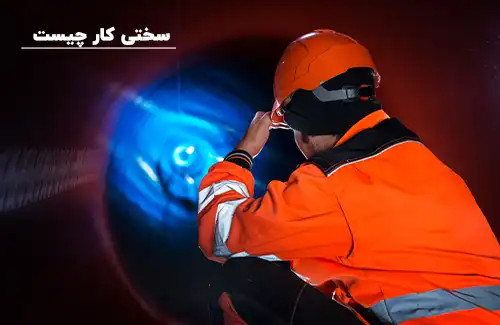
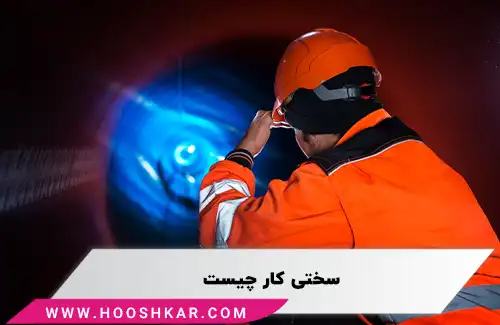
تغییر فرمت و نام گیف ها

diff --git a/Financial/WhatIsAccounting.md b/Financial/WhatIsAccounting.md
@@ -2,7 +2,7 @@
 title: حسابداری چیست؟
 author: سمانه رشوند - فربد وزیرمختار
 description: به طور خلاصه، حسابداری به بررسی و ثبت اطلاعات مالی و اقتصادی سازمانها و شرکتها و تهیه گزارشهای مالی جهت ارائه به مخاطبان داخلی و خارجی، و همچنین در کمک به تصمیمگیریهای مدیریتی و برنامهریزی مالی میپردازد.
-dateModified: 2024/05/07
+dateModified: 2024/05/20
 datePublished: 2023/04/13
 uid: Financial/WhatIsAccounting
 ---
@@ -72,7 +72,7 @@ uid: Financial/WhatIsAccounting
 
 تحلیلگران مالی میتوانند از آن برای ارزیابی عملکرد شرکت استفاده کنند و نهادهای نظارتی نیز میتوانند اطلاعات حسابداری را بررسی کنند تا به یک درک عمیقتر از وضعیت شرکت برسند.
 
-<a href="https://www.hooshkar.com" target="_blank"><img src="./images/Gif-of-Consultation.gif" alt="درخواست مشاوره رایگان" style="display: block; margin-left: auto; margin-right: auto;" title="مشاوره رایگان" caption="false" width="100%" height="100%"></a>
+<a href="https://www.hooshkar.com" target="_blank"><img src="./images/GifConsultation.webp" alt="درخواست مشاوره رایگان" style="display: block; margin-left: auto; margin-right: auto;" title="مشاوره رایگان" caption="false" width="100%" height="100%"></a>
 
 ### دفتر کل چیست؟ 
 دفتر کل، تغییرات و موجودی هر یک از حسابها را نمایش میدهد. اگرچه واحدهای تجاری ممکن است از انواع مختلفی از دفاتر کل استفاده کنند، اما هر واحد تجاری باید حداقل یک دفتر کل داشته باشد. این دفتر، شامل تمام حسابهای دارایی، بدهی و حسابهای حقوق مالکانه است.
@@ -91,6 +91,6 @@ uid: Financial/WhatIsAccounting
 
 بدون توجه به کوچک یا بزرگی یک کسب و کار مهمترین اقدام این است که زمان مناسبی برای دستیابی به اهداف مشخص تعیین شود، برنامهریزی و زمانبندی به طور عجولانه تغییر نکند. در پایان، گزارشهای نهایی در زمانبندی مشخص، که شواهد عملکرد را ارائه میدهند، اهمیت دارند.
 
-<a href="https://www.hooshkar.com" target="_blank"><img src="./images/Gif-of-Demo.gif" alt="درخواست دموی رایگان" style="display: block; margin-left: auto; margin-right: auto;" title="دموی رایگان" caption="false" width="100%" height="100%"></a>
+<a href="https://www.hooshkar.com" target="_blank"><img src="./images/GifDemo.webp" alt="درخواست دموی رایگان" style="display: block; margin-left: auto; margin-right: auto;" title="دموی رایگان" caption="false" width="100%" height="100%"></a>
 
 در این راستا <a href="https://www.hooshkar.com" target="_blank">هوشکار</a>، با سابقه سالها در ارائه نرمافزارهای حسابداری، آماده است تا خدمات خود را به شما ارائه دهد. برای مشاوره و انجام سفارش، با ما تماس حاصل فرمایید.

diff --git a/Financial/TpTaxGov.md b/Financial/TpTaxGov.md
@@ -2,7 +2,7 @@
 title: سامانه مودیان مالیاتی چیست (سایت tp.tax.gov.ir)
 author: سمانه رشوند
 description: سامانه مودیان مالیاتی  یک سامانه آنلاین است که توسط سازمان مالیاتی کشور برای ارتباط و ارسال اطلاعات بین مالکین و عرضهکنندگان خدمات و کالاها (مودیان) با اداره کنندگان مالیات تعبیه شده است.
-dateModified: 2024/05/05
+dateModified: 2024/05/20
 datePublished: 2023/05/07
 uid: Financial/TpTaxGov
 ---
@@ -40,7 +40,7 @@ uid: Financial/TpTaxGov
 
  >  **بند پ ماده 1 قانون پایانه های فروشگاهی و سامانه مودیان، در تعریف سامانه مودیان مالیاتی مقرر داشته:** "سامانهای است، تحت مدیریت سازمان که در آن، به هر مودی، کارپوشه ویژهای اختصاص یافته و تبادل اطلاعات میان مودیان و سازمان، منحصرا از طریق آن کارپوشه انجام میشود. مودیان میتوانند با استفاده از هرگونه سخت افزار یا نرم افزار، اعم از رایانه شخصی، پایانه فروشگاهی، سامانههای ابری یا هر وسیله دیگری که حافظه مالیاتی به آن متصل شده باشد، به سامانه مودیان متصل شوند. مرجع نهائی ثبت، صدور و استعلام صورتحساب الکترونیکی، سامانه مودیان میباشد."
 
-<a href="https://www.hooshkar.com" target="_blank"><img src="./images/Gif-of-Consultation.gif" alt="درخواست مشاوره رایگان" style="display: block; margin-left: auto; margin-right: auto;" title="مشاوره رایگان" caption="false" width="100%" height="100%"></a>
+<a href="https://www.hooshkar.com" target="_blank"><img src="./images/GifConsultation.webp" alt="درخواست مشاوره رایگان" style="display: block; margin-left: auto; margin-right: auto;" title="مشاوره رایگان" caption="false" width="100%" height="100%"></a>
 
 ### قانون سامانه مودیان مکمل قوانین مالیاتی کشور
 
@@ -132,7 +132,7 @@ uid: Financial/TpTaxGov
 ![هوشکار پرداز](./Images/HesabdarBartar.webp) | نرم افزار سامانه مودیان حسابداران برتر | استعلام وضعیت فاکتور در سامانه مودیان، قابلیت طراحی فاکتور چاپی، مدیریت مشتری | 7,200,000
 ![هوشکار پرداز](./Images/Chortke.webp) | نرم افزار سامانه مودیان چرتکه | استعلام کد اقتصادی، ارسال آنی فاکتورها، چاپ فاکتور رسمی، امکان اصلاح صورتحساب |  از11,400,00 تا 19,300,000
 
-<a href="https://www.hooshkar.com" target="_blank"><img src="./images/Gif-of-Demo.gif" alt="درخواست دموی رایگان" style="display: block; margin-left: auto; margin-right: auto;" title="ثبت دمو" caption="false" width="100%" height="100%"></a>
+<a href="https://www.hooshkar.com" target="_blank"><img src="./images/GifDemo.webp" alt="درخواست دموی رایگان" style="display: block; margin-left: auto; margin-right: auto;" title="ثبت دمو" caption="false" width="100%" height="100%"></a>
 
 
 

diff --git a/Financial/CostAccounting.md b/Financial/CostAccounting.md
@@ -2,7 +2,7 @@
 title: هدف از حسابداری صنعتی چیست
 author: سمانه رشوند
 description: حسابداری صنعتی یک شاخه از حسابداری محسوب می شود که به محاسبه بهای تمام شده محصولات و کنترل هزینه های تولید میپردازد.
-dateModified: 2024/05/11
+dateModified: 2024/05/20
 datePublished: 2023/07/18
 uid: Financial/CostAccounting
 ---
@@ -97,7 +97,7 @@ uid: Financial/CostAccounting
 
 این طبقهبندی هزینهها به حسابداران و مدیران کمک میکند تا هزینههای مختلف را به صورت دقیق تشخیص داده و برای برنامه ریزی مالی و تصمیمگیریهای استراتژیک مورد استفاده قرار دهند. همچنین، این طبقهبندی به تجزیه و تحلیل هزینهها، کاهش هزینهها و بهبود کارایی در فرآیندهای تولید کمک میکند.
 
-<a href="https://www.hooshkar.com" target="_blank"><img src="./images/Gif-of-Consultation.gif" alt="درخواست مشاوره رایگان" style="display: block; margin-left: auto; margin-right: auto;" title="مشاوره رایگان" caption="false" width="100%" height="100%"></a>
+<a href="https://www.hooshkar.com" target="_blank"><img src="./images/GifConsultation.webp" alt="درخواست مشاوره رایگان" style="display: block; margin-left: auto; margin-right: auto;" title="مشاوره رایگان" caption="false" width="100%" height="100%"></a>
 
 ### وظایف حسابداری
 
@@ -215,6 +215,6 @@ uid: Financial/CostAccounting
 
 **6. مهارت کار با نرم افزارهای مالی (بهای تمام شده) و اداری (اکسل):** حسابداری صنعتی نیازمند استفاده ماهرانه از نرم افزارهای مالی و اداری است. تسلط کامل بر این نرم افزارها و قابلیت استفاده بهینه از ابزارهای آن مهارتی ضروری برای ورود به این شاخه است.
 
-<a href="https://www.hooshkar.com" target="_blank"><img src="./images/Gif-of-Demo.gif" alt="درخواست دموی رایگان" style="display: block; margin-left: auto; margin-right: auto;" title="دموی رایگان" caption="false" width="100%" height="100%"></a>
+<a href="https://www.hooshkar.com" target="_blank"><img src="./images/GifDemo.webp" alt="درخواست دموی رایگان" style="display: block; margin-left: auto; margin-right: auto;" title="دموی رایگان" caption="false" width="100%" height="100%"></a>
 
 با توجه به موارد فوق، ورود به این شغل و حوزه نیازمند ترکیبی از تجربه، دانش و مهارتهای متنوع است. به علاوه، مهارتهای ارتباطی، توانایی حل مسئله و دقت در کار نیز از اهمیت بالایی برخوردارند. پیشرفت و موفقیت در این حوزه نیازمند یادگیری و بهروزرسانی مداوم نیز میباشد.

diff --git a/Financial/TheBestPayrollSoftware.md b/Financial/TheBestPayrollSoftware.md
@@ -2,7 +2,7 @@
 title: لیست بهترین نرم افزار های حقوق و دستمزد
 author: سمانه رشوند
 description: انتخاب بهترین نرم افزار حقوق و دستمزد بستگی به عوامل متعددی از جمله اندازه سازمان، تعداد کارمندان، بودجه در دسترس، و نیازهای اختصاصی دارد. با این حال، با بررسی دقیق ویژگیها و هزینههای هر نرم افزار، مدیران میتوانند گزینهای را انتخاب کنند که بهترین تناسب را با شرایط سازمان آنها داشته باشد.
-dateModified: 2024/05/08
+dateModified: 2024/05/20
 datePublished: 2022/10/30
 uid: Financial/TheBestPayrollSoftware
 ---
@@ -28,7 +28,7 @@ uid: Financial/TheBestPayrollSoftware
 
 در این مقاله، به معرفی چند مورد از بهترین نرم افزارها در زمینه محاسبه حقوق و دستمزد می پردازیم.
 
-<a href="https://www.hooshkar.com" target="_blank"><img src="./images/Gif-of-Consultation.gif" alt="درخواست مشاوره رایگان" style="display: block; margin-left: auto; margin-right: auto;" title="مشاوره رایگان" caption="false" width="100%" height="100%"></a>
+<a href="https://www.hooshkar.com" target="_blank"><img src="./images/GifConsultation.webp" alt="درخواست مشاوره رایگان" style="display: block; margin-left: auto; margin-right: auto;" title="مشاوره رایگان" caption="false" width="100%" height="100%"></a>
 
 ## <a href="https://www.hooshkar.com/Software/Sayan/Module/Payroll" target="_blank">نرم افزار حقوق و دستمزد سایان</a>
 حقوق و دستمزد سایان، یکی از محصولات کاربردی شرکت هوشکار
@@ -144,6 +144,6 @@ uid: Financial/TheBestPayrollSoftware
 
 هر سازمانی بسته به فعالیتها، ساختار و فرایندهای داخلی خود، نیازمندیها و خواستههای متفاوتی دارد. بنابراین انتخاب نهایی نرمافزار باید بر اساس بررسی دقیق نیازها و اولویتبندی آنها در هر سازمان صورت پذیرد تا بتواند به بهترین شکل نیازها را پوشش دهد.
 
-<a href="https://www.hooshkar.com" target="_blank"><img src="./images/Gif-of-Demo.gif" alt="درخواست دموی رایگان" style="display: block; margin-left: auto; margin-right: auto;" title="دموی رایگان" caption="false" width="100%" height="100%"></a>
+<a href="https://www.hooshkar.com" target="_blank"><img src="./images/GifDemo.webp" alt="درخواست دموی رایگان" style="display: block; margin-left: auto; margin-right: auto;" title="دموی رایگان" caption="false" width="100%" height="100%"></a>
 
 **با نرم افزار مدیریت حقوق و دستمزد سایان، محاسبه حقوق کارکنان به سادگی چند کلیک خواهد بود. بدون خطا، دقیق و سریع!**

diff --git a/Financial/BasicsOfFinancialAccounting.md b/Financial/BasicsOfFinancialAccounting.md
@@ -1,8 +1,8 @@
 ---
-title: آموزش مبانی حسابداری
+title: مبانی حسابداری
 author: سمانه رشوند
 description: مبانی حسابداری مالی یکی از مفاهیم اساسی در علم حسابداری است که به بررسی روشهای ثبت و تجزیه و تحلیل اطلاعات مالی یک شرکت میپردازد.
-dateModified: 2024/05/11
+dateModified: 2024/05/20
 datePublished: 2023/03/01
 uid: Financial/BasicsOfFinancialAccounting
 ---
@@ -13,13 +13,8 @@ uid: Financial/BasicsOfFinancialAccounting
   <ul>
     <li>تعریف حسابداری مالی و اهمیت آن</li>
     <li>مفاهیم اساسی حسابداری مالی</li>
-    <li>دوره مالی</li>
-    <li>دوره حسابرسی</li>
-    <li>داراییها</li>
-    <li>بدهیها</li>
-    <li>حساب ترازنامه</li>
-    <li>گزارش سود و زیان</li>
-    <li>نتیجهگیری</li>
+    <li>انواع مبانی حسابداری</li>
+     <li>نتیجهگیری</li>
   </ul>
 </details>
 
@@ -70,8 +65,7 @@ uid: Financial/BasicsOfFinancialAccounting
 
 در صورتی که سود شرکت بیشتر از زیان باشد، به معنی این است که شرکت در یک دوره مالی به سود رسیده است. این گزارش برای مدیران، سهامداران و بورسیهها بسیار مهم است.
 
-<a href="https://www.hooshkar.com" target="_blank"><img src="./images/Gif-of-Demo.gif" alt="درخواست دموی رایگان" style="display: block; margin-left: auto; margin-right: auto;" title="دموی رایگان" caption="false" width="100%" height="100%"></a>
-
+## انواع مبانی حسابداری
 
 ![طبقه بندی حساب ها در ترازنامه](./Images/TypesOfAccountingBasics.webp)
 
@@ -85,6 +79,8 @@ uid: Financial/BasicsOfFinancialAccounting
 **مبنای نقدی تعدیل شده:** ثبت درآمدها در دوره مربوطه و ثبت هزینهها مستلزم برقراری دو شرط ضروری و کافی است؛ یعنی ایجاد تعهد و انجام پرداخت.
 
 **مبنای تعهدی تعدیل شده:** درآمد آماده در دسترس و قابل اندازهگیری بوده و هزینه در زمان بروز تعهد، قابل پرداخت است.
+
+<a href="https://www.hooshkar.com" target="_blank"><img src="./images/GifDemo.webp" alt="درخواست دموی رایگان" style="display: block; margin-left: auto; margin-right: auto;" title="دموی رایگان" caption="false" width="100%" height="100%"></a>
 
 #### نتیجه گیری
 

diff --git a/Financial/WhatIsCardexWarehouse.md b/Financial/WhatIsCardexWarehouse.md
@@ -2,7 +2,7 @@
 title: کاردکس انبار چیست؟
 author: فربد وزیرمختار - سمانه رشوند
 description: یکی از ابزارهای مورد استفاده برای مدیریت موجودی و انبارداری، "کارتابل انبار" یا "کاردکس انبار" میباشد.
-dateModified: 2024/05/06
+dateModified: 2024/05/20
 datePublished: 2024/04/29
 uid: Business/WhatIsCardexWarehouse
 ---
@@ -40,7 +40,7 @@ uid: Business/WhatIsCardexWarehouse
 
 هرگاه کالا وارد یا خارج شود، اطلاعات مربوطه در کاردکس انبار به دقت و لحظهای ثبت میشود و سپس در اسناد حسابداری مورد استفاده قرار میگیرد. در واقع، کاردکس انبار و کاردکس کالا مفهومی مشترک دارند و هیچ تفاوتی بین آنها وجود ندارد.
 
-<a href="https://www.hooshkar.com" target="_blank"><img src="./images/Gif-of-Consultation.gif" alt="درخواست مشاوره رایگان" style="display: block; margin-left: auto; margin-right: auto;" title="مشاوره رایگان" caption="false" width="100%" height="100%"></a>
+<a href="https://www.hooshkar.com" target="_blank"><img src="./images/GifConsultation.webp" alt="درخواست مشاوره رایگان" style="display: block; margin-left: auto; margin-right: auto;" title="مشاوره رایگان" caption="false" width="100%" height="100%"></a>
 
 ### انواع کاردکس انبار
 
@@ -68,6 +68,6 @@ uid: Business/WhatIsCardexWarehouse
 5. افزایش سرعت در حسابداری و داشتن آمارهای دقیق از مواد اولیه
 
 
-<a href="https://www.hooshkar.com" target="_blank"><img src="./images/Gif-of-Demo.gif" alt="درخواست دموی رایگان" style="display: block; margin-left: auto; margin-right: auto;" title="دموی رایگان" caption="false" width="100%" height="100%"></a>
+<a href="https://www.hooshkar.com" target="_blank"><img src="./images/GifDemo.webp" alt="درخواست دموی رایگان" style="display: block; margin-left: auto; margin-right: auto;" title="دموی رایگان" caption="false" width="100%" height="100%"></a>
 
 ﺩﺭ ﭘﺎﯾﺎﻥ، ﺍﺯ شما ﮐﻪ ﺗﺎ ﺍﻧﺘﻬﺎی این مقاله با ﻣﺎ همراه بودید، ﺳﭙﺎﺳﮕﺰﺍﺭﯾﻢ. ﺍﻣﯿﺪﻭﺍﺭﯾﻢ ﻣﻄﺎﻟﺐ ﺍﺭﺍﺋﻪ ﺷﺪﻩ ﺑﺮﺍﯼ ﺷﻤﺎ ﻣﻔﯿﺪ ﺑﻮﺩﻩ ﺑﺎﺷﺪ. ﺍﺯ ﺷﻨﯿﺪﻥ ﻧﻈﺮﺍﺕ ﻭ ﺍﻧﺘﻘﺎﺩﺍﺕ ﺷﻤﺎ ﺧﺸﻨﻮﺩ ﺧﻮﺍهیم ﺷﺪ.

diff --git a/Financial/TheBestInventorySoftware.md b/Financial/TheBestInventorySoftware.md
@@ -3,7 +3,7 @@ title: لیست بهترین نرمافزار های انبارداری
 author: سمانه رشوند
 description: به طور کلی، بهترین نرم افزار انبارداری باید دارای ویژگیهایی باشد که به بهبود کارایی، دقت، سرعت و امنیت در
  مدیریت انبار و موجودیها کمک کند و با نیازها و الزامات سازمانها و تجارب تجاری مختلف سازگار باشد
-dateModified: 2024/05/08
+dateModified: 2024/05/20
 datePublished: 2023/05/27
 uid: Financial/TheBestInventorySoftware
 ---
@@ -29,7 +29,7 @@ uid: Financial/TheBestInventorySoftware
 
 در این مقاله قصد داریم تا با معرفی لیستی از  بهترین نرم افزارهای انبارداری، نگاهی اجمالی به کاربردها و قابلیتهای آنها داشته باشیم تا بتوانیم گزینه مناسبی را برای نیازهای سازمان خود انتخاب کنیم.
 
-<a href="https://www.hooshkar.com" target="_blank"><img src="./images/Gif-of-Consultation.gif" alt="درخواست مشاوره رایگان" style="display: block; margin-left: auto; margin-right: auto;" title="مشاوره رایگان" caption="false" width="100%" height="100%"></a>
+<a href="https://www.hooshkar.com" target="_blank"><img src="./images/GifConsultation.webp" alt="درخواست مشاوره رایگان" style="display: block; margin-left: auto; margin-right: auto;" title="مشاوره رایگان" caption="false" width="100%" height="100%"></a>
 
 ## نرم افزار مدیریت انبار چیست؟
 
@@ -106,4 +106,4 @@ uid: Financial/TheBestInventorySoftware
 - تعیین واحدهای اندازهگیری بدون محدودیت
 - امکان طبقهبندی کالاها با تعیین سطوح مختلف طبقهبندی
 
-<a href="https://www.hooshkar.com" target="_blank"><img src="./images/Gif-of-Demo.gif" alt="درخواست دموی رایگان" style="display: block; margin-left: auto; margin-right: auto;" title="دموی رایگان" caption="false" width="100%" height="100%"></a>
+<a href="https://www.hooshkar.com" target="_blank"><img src="./images/GifDemo.webp" alt="درخواست دموی رایگان" style="display: block; margin-left: auto; margin-right: auto;" title="دموی رایگان" caption="false" width="100%" height="100%"></a>

diff --git a/Financial/TheBestCostAccountingSoftware.md b/Financial/TheBestCostAccountingSoftware.md
@@ -2,7 +2,7 @@
 title: لیست 5 بهترین نرم افزار بهای تمام شده
 author: سمانه رشوند
 description: برخی از ویژگی های بهترین نرم افزار حسابداری بهای تمام شده؛ قابلیت مدیریت فاکتورها و موجودی کالاها، امکان ثبت و کنترل ضایعات و توقفات، امکان تعریف مراکز هزینه، ارائه گزارشات دقیق و غیره
-dateModified: 2024/05/08
+dateModified: 2024/05/20
 datePublished: 2023/05/22
 uid: Financial/TheBestCostAccountingSoftware
 ---
@@ -28,7 +28,7 @@ uid: Financial/TheBestCostAccountingSoftware
 
 در ادامه مقاله به بررسی ویژگیها و کاربردهای اصلی نرمافزارهای حسابداری بهای تمام شده و مزایای آنها خواهیم پرداخت.
 
-<a href="https://www.hooshkar.com" target="_blank"><img src="./images/Gif-of-Consultation.gif" alt="درخواست مشاوره رایگان" style="display: block; margin-left: auto; margin-right: auto;" title="مشاوره رایگان" caption="false" width="100%" height="100%"></a>
+<a href="https://www.hooshkar.com" target="_blank"><img src="./images/GifConsultation.webp" alt="درخواست مشاوره رایگان" style="display: block; margin-left: auto; margin-right: auto;" title="مشاوره رایگان" caption="false" width="100%" height="100%"></a>
 
 **محاسبه بهای تمام شده، یکی از ضروریات اساسی حوزه مالی و حسابداری هر سازمان است.**
 
@@ -116,4 +116,4 @@ uid: Financial/TheBestCostAccountingSoftware
 -	محاسبه انحرافات در پایان دوره تولید براساس روشهای استاندارد
 -	ارائه گزارش کالاهای فروختهشده و ارسال آنها به سامانه انبار
 
-<a href="https://www.hooshkar.com" target="_blank"><img src="./images/Gif-of-Demo.gif" alt="درخواست دموی رایگان" style="display: block; margin-left: auto; margin-right: auto;" title="دموی رایگان" caption="false" width="100%" height="100%"></a>
+<a href="https://www.hooshkar.com" target="_blank"><img src="./images/GifDemo.webp" alt="درخواست دموی رایگان" style="display: block; margin-left: auto; margin-right: auto;" title="دموی رایگان" caption="false" width="100%" height="100%"></a>

diff --git a/Financial/AccountingPrinciples.md b/Financial/AccountingPrinciples.md
@@ -2,7 +2,7 @@
 title: اصول حسابداری چیست؟
 author: سمانه رشوند
 description: مهم است که سازمانها برای مدیریت مالی به درستی اصول حسابداری را رعایت کنند. این کار نه تنها به آنها کمک میکند تا در قبال بدهیها و داراییهای خود شفافیت داشته باشند، بلکه به آنها کمک میکند تا در تصمیمگیریهای مالی بهتر عمل کنند و به صورت کلی، بهبود عملکرد سازمان را در بلند مدت فراهم کنند.
-dateModified: 2024/05/11
+dateModified: 2024/05/20
 datePublished: 2023/03/07
 uid: Financial/AccountingPrinciples
 ---
@@ -78,6 +78,6 @@ uid: Financial/AccountingPrinciples
 
 همچنین، اصول حسابداری به شرکتها کمک میکند تا برای مواجه شدن با مشکلات مالی، مانند کاهش درآمد، افزایش هزینهها و یا افزایش بدهیها، آماده باشند. با رعایت اصول حسابداری، شرکتها به راحتی میتوانند میزان درآمد و هزینههای خود را محاسبه کنند و برنامهریزیهای لازم را انجام دهند.
 
-<a href="https://www.hooshkar.com" target="_blank"><img src="./images/Gif-of-Demo.gif" alt="درخواست دموی رایگان" style="display: block; margin-left: auto; margin-right: auto;" title="دموی رایگان" caption="false" width="100%" height="100%"></a>
+<a href="https://www.hooshkar.com" target="_blank"><img src="./images/GifDemo.webp" alt="درخواست دموی رایگان" style="display: block; margin-left: auto; margin-right: auto;" title="دموی رایگان" caption="false" width="100%" height="100%"></a>
 
-اگر میخواهید در مورد حسابداری بیشتر بدانید، پیشنهاد میکنیم فیلم های آموزشی "<a href="https://www.aparat.com/Hooshkar_Pardaz" target="_blank">کانال آپارات هوشکار</a>" را دنبال کنید.
+اگر میخواهید در مورد حسابداری بیشتر بدانید، پیشنهاد میکنیم فیلم های آموزشی "<a href="https://www.aparat.com/Hooshkar_Pardaz" target="_blank">آپارات هوشکار</a>" را دنبال کنید.

diff --git a/Financial/TypesOfAudits.md b/Financial/TypesOfAudits.md
@@ -2,7 +2,7 @@
 title: حسابرسی چیست و انواع حسابرسی کدام است؟
 author: سمانه رشوند
 description: حسابرسی یک فرایند مهم در حوزه حسابداری و مالیاتی است که به جهت بررسی صحت و صلاحیت گزارشهای مالی یک شرکت یا سازمان توسط حسابرسان مستقل صورت میگیرد. در ادامه، انواع حسابرسی را بررسی خواهیم کرد.
-dateModified: 2024/04/07
+dateModified: 2024/04/20
 datePublished: 2023/03/02
 uid: Financial/TypesOfAudits
 ---
@@ -72,7 +72,7 @@ uid: Financial/TypesOfAudits
 
 در نهایت، بر اساس نیازهای خاص هر سازمان، نوع حسابرسی مناسبی انتخاب میشود که به طور کلی، ذینفعان و سرمایه گذاران به دقت نوع حسابرسی انتخاب شده را مورد بررسی قرار میدهند تا بتوانند به درستی از وضعیت مالی و عملکرد شرکت آگاه شوند. همچنین، حسابرسیها میتوانند برای بهبود عملکرد مالی سازمان و افزایش اعتماد سرمایه گذاران مورد استفاده قرار بگیرند.
 
-<a href="https://www.hooshkar.com" target="_blank"><img src="./images/Gif-of-Consultation.gif" alt="درخواست مشاوره رایگان" style="display: block; margin-left: auto; margin-right: auto;" title="مشاوره رایگان" caption="false" width="100%" height="100%"></a>
+<a href="https://www.hooshkar.com" target="_blank"><img src="./images/GifConsultation.webp" alt="درخواست مشاوره رایگان" style="display: block; margin-left: auto; margin-right: auto;" title="مشاوره رایگان" caption="false" width="100%" height="100%"></a>
 
 اگر سوالی در مورد حسابرسی یا نیاز به راهنمایی در زمینه مالیات، حقوق و دستمزد دارید؟ <a href="https://www.hooshkar.com/Agents" target="_blank">نمایندگان هوشکار</a> آماده اند تا به شما کمک کنند. 
 با ما در ارتباط باشید و سوالات خود را در بخش نظرات مطرح کنید. ما اینجاییم تا به شما اطلاعات لازم را ارائه دهیم.

diff --git a/Financial/FinancialRatios.md b/Financial/FinancialRatios.md
@@ -2,7 +2,7 @@
 title: انواع نسبت های مالی
 author: سمانه رشوند
 description: نسبتهای مالی برای مدیران، سرمایهگذاران و بورس بسیار مهم هستند. با استفاده از این نسبتها، این افراد میتوانند وضعیت مالی شرکت را بررسی کنند و تصمیمات خوبی در خصوص سرمایهگذاری در آن بگیرند. اما در عین حال، باید توجه داشت که هر شرکت و هر صنعتی خصوصیات خود را دارد و بهتر است که نسبتهای مالی برای هر شرکت به طور جداگانه بررسی شود و تنها به صورت یک عامل در تصمیم گیریها در نظر گرفته نشود.
-dateModified: 2024/05/09
+dateModified: 2024/05/20
 datePublished: 2023/05/23
 uid: Financial/FinancialRatios
 ---
@@ -50,7 +50,7 @@ uid: Financial/FinancialRatios
 
 **•	نسبت بدهی به دارایی:** این نسبت، نشان دهنده میزان استفاده شرکت از منابع بدهی به مقدار داراییهای آن است. این نسبت نشان میدهد که چقدر شرکت برای تأمین داراییهای خود از منابع بدهی استفاده میکند.
  
-<a href="https://www.hooshkar.com" target="_blank"><img src="./images/Gif-of-Consultation.gif" alt="درخواست مشاوره رایگان" style="display: block; margin-left: auto; margin-right: auto;" title="مشاوره رایگان" caption="false" width="100%" height="100%"></a>
+<a href="https://www.hooshkar.com" target="_blank"><img src="./images/GifConsultation.webp" alt="درخواست مشاوره رایگان" style="display: block; margin-left: auto; margin-right: auto;" title="مشاوره رایگان" caption="false" width="100%" height="100%"></a>
 
  ### 3- نسبت های پوششی
 نسبتهای پوششی نشان دهنده توانایی شرکت در پرداخت بدهیهای خود است. این نسبتها نشان میدهند که چقدر شرکت توانایی دارد تا بدهیهای خود را پرداخت کند. چند نسبت اصلی عبارتند از:

diff --git a/Financial/TypesCostsManufacturingCompanies.md b/Financial/TypesCostsManufacturingCompanies.md
@@ -2,7 +2,7 @@
 title: مراکز هزینه در شرکتهای تولیدی
 author: سمانه رشوند
 description: هدف از ایجاد مراکز هزینه در شرکتهای تولیدی، تعیین و محاسبه هزینههای مربوط به هر بخش و فعالیت مختلف است. با تقسیم هزینهها بر اساس مراکز هزینه، میتوان مشخص کرد کدام بخش بیشترین هزینه را دارد و در نتیجه، عملکرد مراکز را مدیریت کرد.
-dateModified: 2024/05/07
+dateModified: 2024/05/20
 datePublished: 2024/04/17
 uid: Financial/TypesCostsManufacturingCompanies
 ---
@@ -64,7 +64,7 @@ uid: Financial/TypesCostsManufacturingCompanies
 
 در اینجا نکته مهمی باید ذکر شود که تعیین مراکز هزینه به تنهایی کافی نیست و باید در کنار آن، یک سیستم پایش و کنترل نیز برای آن تعیین شود. برای مثال، میتوان از سیستمهای مدیریت برنامههای کاری و پیشرفت پروژههای مربوطه استفاده کرد تا به مراتب بهبود یابد.
 
-<a href="https://www.hooshkar.com" target="_blank"><img src="./images/Gif-of-Consultation.gif" alt="درخواست مشاوره رایگان" style="display: block; margin-left: auto; margin-right: auto;" title="مشاوره رایگان" caption="false" width="100%" height="100%"></a>
+<a href="https://www.hooshkar.com" target="_blank"><img src="./images/GifConsultation.webp" alt="درخواست مشاوره رایگان" style="display: block; margin-left: auto; margin-right: auto;" title="مشاوره رایگان" caption="false" width="100%" height="100%"></a>
 
 #### نتیجه گیری
 در کل، استفاده از مراکز هزینه در شرکتهای تولیدی برای بهبود عملکرد و کاهش هزینههای اضافی، بهبود بودجهبندی و افزایش سود شرکت بسیار مهم است. 
